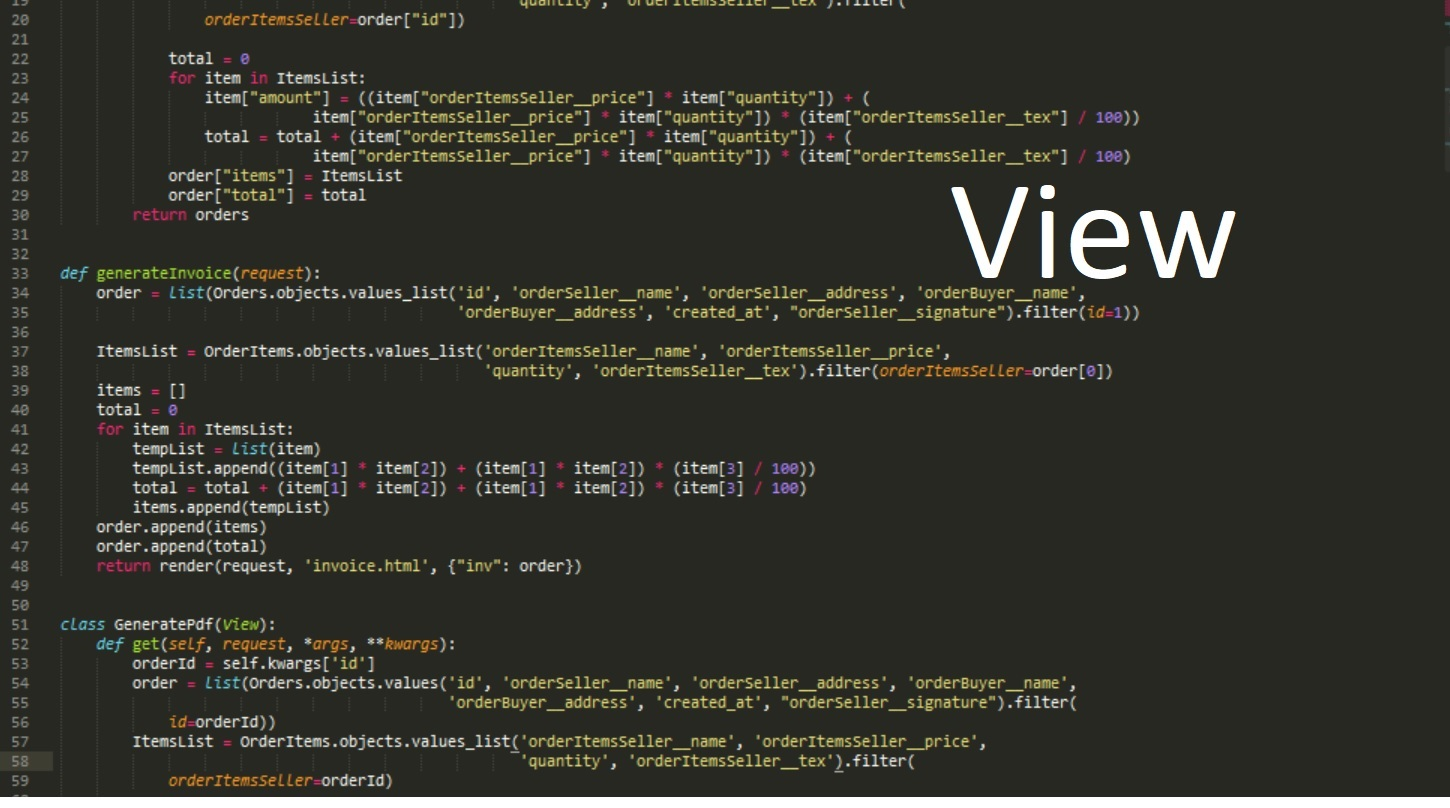
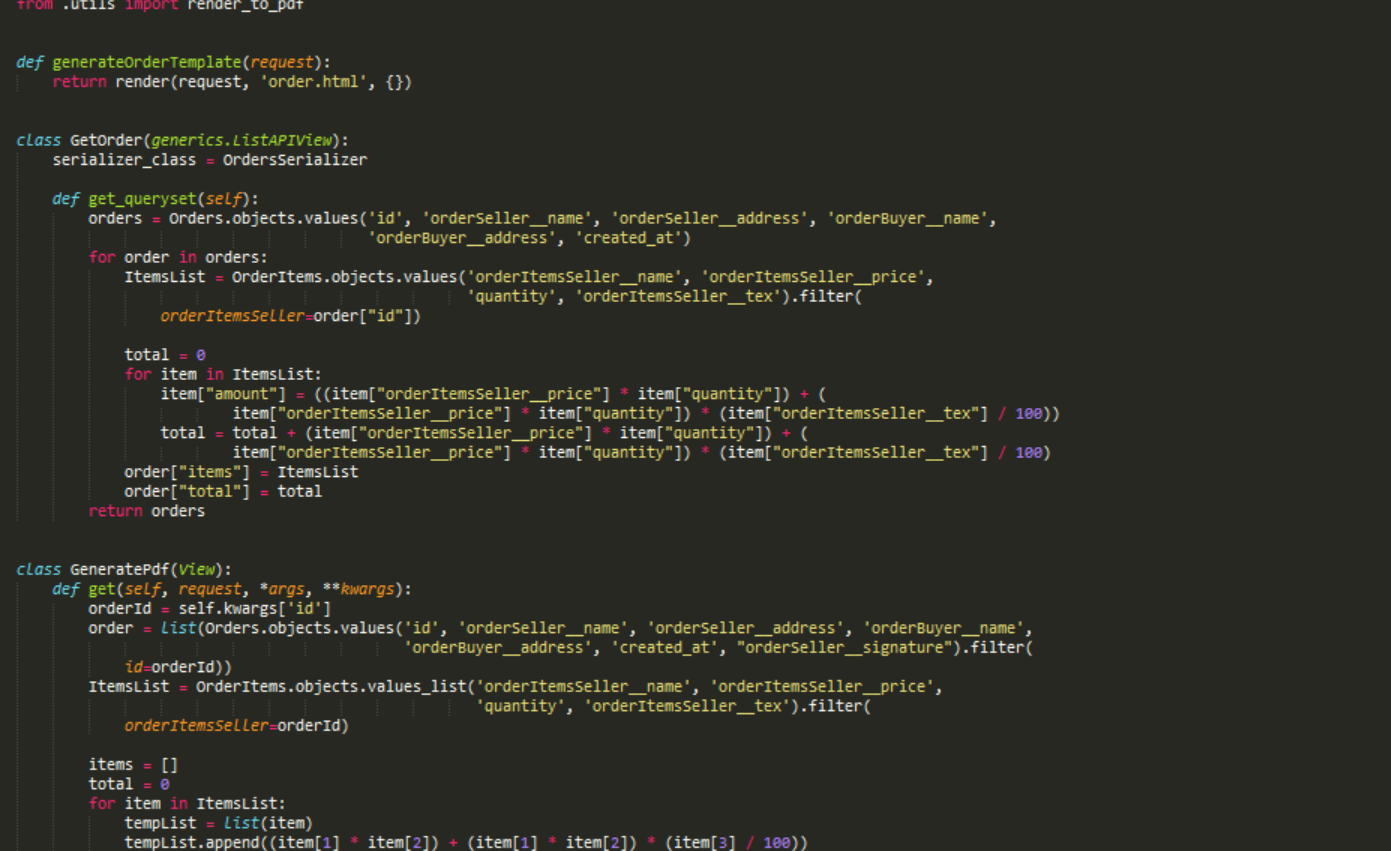
changes

Changed region(s): [[0.0, 0.0, 1.0, 1.0], [0.4328, 0.0, 0.6183, 0.0309], [0.9892, 0.0, 1.0, 0.0309]]

diff --git a/kisan/invoice/views.py b/kisan/invoice/views.py
@@ -1,6 +1,6 @@
 from django.shortcuts import render
 from rest_framework import generics
-from .serializers import SugestionsSerializer
+from .serializers import OrdersSerializer
 from .models import Sellers, Buyers, Orders, OrderItems, Items
 from django.templatetags.static import static
 from django.http import HttpResponse
@@ -8,8 +8,12 @@ from django.views.generic import View
 from .utils import render_to_pdf
 
 
+def generateOrderTemplate(request):
+    return render(request, 'order.html', {})
+
+
 class GetOrder(generics.ListAPIView):
-    serializer_class = SugestionsSerializer
+    serializer_class = OrdersSerializer
 
     def get_queryset(self):
         orders = Orders.objects.values('id', 'orderSeller__name', 'orderSeller__address', 'orderBuyer__name',
@@ -22,30 +26,12 @@ class GetOrder(generics.ListAPIView):
             total = 0
             for item in ItemsList:
                 item["amount"] = ((item["orderItemsSeller__price"] * item["quantity"]) + (
-                            item["orderItemsSeller__price"] * item["quantity"]) * (item["orderItemsSeller__tex"] / 100))
+                        item["orderItemsSeller__price"] * item["quantity"]) * (item["orderItemsSeller__tex"] / 100))
                 total = total + (item["orderItemsSeller__price"] * item["quantity"]) + (
-                            item["orderItemsSeller__price"] * item["quantity"]) * (item["orderItemsSeller__tex"] / 100)
+                        item["orderItemsSeller__price"] * item["quantity"]) * (item["orderItemsSeller__tex"] / 100)
             order["items"] = ItemsList
             order["total"] = total
         return orders
-
-
-def generateInvoice(request):
-    order = list(Orders.objects.values_list('id', 'orderSeller__name', 'orderSeller__address', 'orderBuyer__name',
-                                            'orderBuyer__address', 'created_at', "orderSeller__signature").filter(id=1))
-
-    ItemsList = OrderItems.objects.values_list('orderItemsSeller__name', 'orderItemsSeller__price',
-                                               'quantity', 'orderItemsSeller__tex').filter(orderItemsSeller=order[0])
-    items = []
-    total = 0
-    for item in ItemsList:
-        tempList = list(item)
-        tempList.append((item[1] * item[2]) + (item[1] * item[2]) * (item[3] / 100))
-        total = total + (item[1] * item[2]) + (item[1] * item[2]) * (item[3] / 100)
-        items.append(tempList)
-    order.append(items)
-    order.append(total)
-    return render(request, 'invoice.html', {"inv": order})
 
 
 class GeneratePdf(View):
@@ -75,7 +61,7 @@ class GeneratePdf(View):
         order[0]["total"] = total
         data = order[0]
 
-        pdf = render_to_pdf('invoice2.html', data)
+        pdf = render_to_pdf('invoiceTemplate.html', data)
         if pdf:
             response = HttpResponse(pdf, content_type='application/pdf')
             filename = "Invoice_%s.pdf" % (orderId)

diff --git a/kisan/kisan/urls.py b/kisan/kisan/urls.py
@@ -24,9 +24,9 @@ router = routers.DefaultRouter()
 
 urlpatterns = [
     path('admin/', admin.site.urls),
-    path('', views.generateInvoice),
+    path('', views.generateOrderTemplate, name="orderPage"),
     path('download/invoice/<int:id>/', views.GeneratePdf.as_view(), name="download"),
-    path('api/orders/', views.GetOrder.as_view())
+    path('api/orders/', views.GetOrder.as_view(), name="orderEndpoint")
 
 ]
 urlpatterns += static(settings.MEDIA_URL, document_root=settings.MEDIA_ROOT)

diff --git a/kisan/invoice/serializers.py b/kisan/invoice/serializers.py
@@ -1,7 +1,7 @@
 from rest_framework import serializers
 
 
-class SugestionsSerializer(serializers.Serializer):
+class OrdersSerializer(serializers.Serializer):
     id = serializers.IntegerField()
     orderSeller__name = serializers.CharField()
     orderSeller__address = serializers.CharField()
